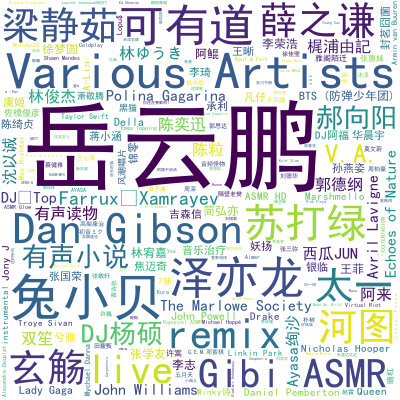
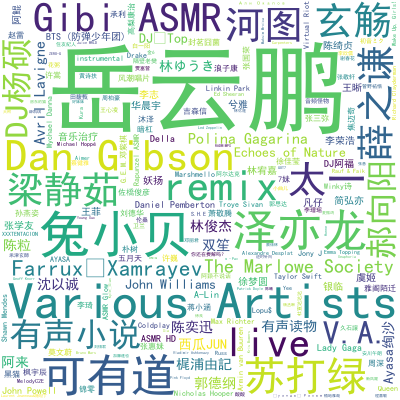
网易云音乐爬虫及分析完工

diff --git a/网易云音乐/analysis_comments.py b/网易云音乐/analysis_comments.py
@@ -6,7 +6,7 @@ Created on Thu Mar 21 14:24:41 2019
 """
 
 
-import time, os, json, copy
+import os, json, copy
 from lib import *
 from song_comments import SongComments
 import pandas as pd
@@ -49,7 +49,7 @@ for i,song_id in enumerate(all_song_id):
         tmp2.pop('comments')
         song_infos[song_id] = tmp2
             
-#%%
+
 all_data = list(map(deal_song_data, all_json))
 all_data2 = pd.concat(all_data)
 
@@ -112,10 +112,8 @@ fig.show()
 fig.savefig('output\\歌手所有歌曲总评论数top20.jpg')
 
 #%% 对所有歌手按照评论数量为热度制作词云
+word_counts = total_comm_by_singer['total'].to_dict()
 
-
-word_counts = collections.Counter( total_comm_by_singer['total'].to_dict())
-word_counts_top10 = word_counts.most_common(10) # 获取前10最高频的词
 mask = np.array(Image.open('timg.jpg')) # 定义词频背景
 wc = wordcloud.WordCloud(
     font_path='C:/Windows/Fonts/simhei.ttf', # 设置字体格式
@@ -155,7 +153,7 @@ fig.savefig('output\\歌手歌曲数量排行top20.jpg')
 
 #%% 对所有歌手按照歌曲数量为热度制作词云
 
-word_counts = collections.Counter( total_songnum_by_singer['total'].to_dict())
+word_counts =  total_songnum_by_singer['total'].to_dict()
 wc = wordcloud.WordCloud(
     font_path='C:/Windows/Fonts/simhei.ttf', # 设置字体格式
     #mask=mask, # 设置背景图
@@ -175,7 +173,7 @@ tmp = total_songnum_by_singer['total'].to_dict()
 tmp.pop('宝宝巴士')
 tmp.pop('英语听力')
 tmp.pop('群星')
-word_counts = collections.Counter( tmp)
+word_counts = tmp
 wc = wordcloud.WordCloud(
     font_path='C:/Windows/Fonts/simhei.ttf', # 设置字体格式
     #mask=mask, # 设置背景图
